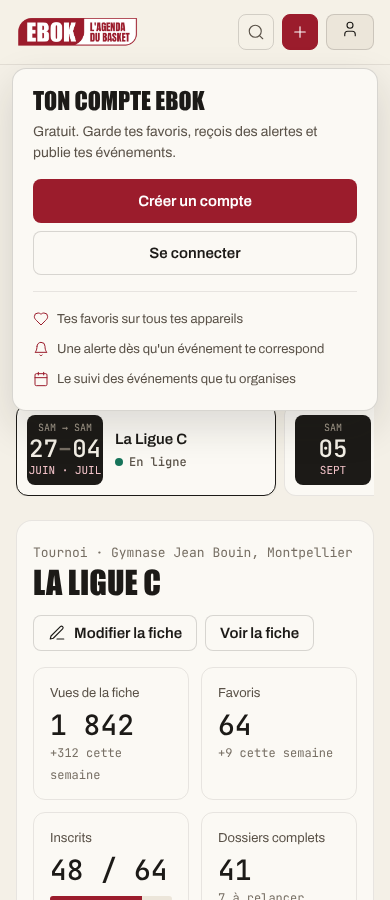
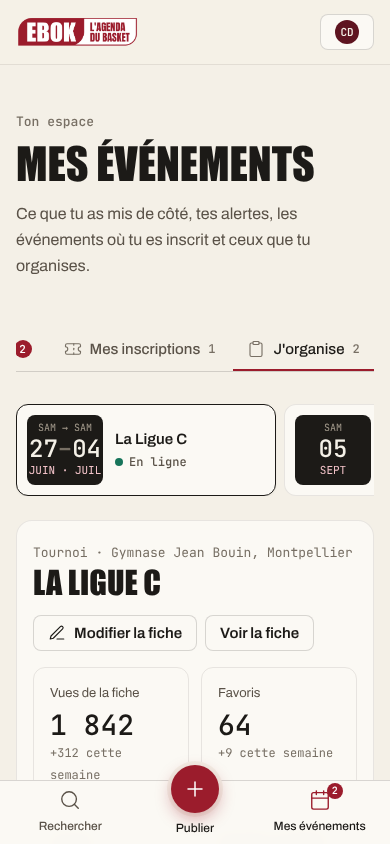
Maquette : Publier au centre du menu, barre du bas sur portable
Claude-Session: https://claude.ai/code/session_01XyUKpsj1AWNnaW1cNftfQd

diff --git a/maquettes/unslop/mes-evenements.html b/maquettes/unslop/mes-evenements.html
@@ -45,6 +45,28 @@ button,input{font:inherit;color:inherit}button{cursor:pointer}a{color:inherit;te
 .avatar{width:24px;height:24px;border-radius:50%;background:var(--bordeaux);color:#F4F0E7;display:grid;place-items:center;font:500 11px var(--mono)}
 .mobile-only{display:none}
 
+/* Publier au centre de la barre */
+.nav{align-items:center;gap:8px}
+.nav .nav-pub{height:40px;padding:0 18px;margin:0 8px;color:#fff;box-shadow:none}
+.nav .nav-pub:hover{background:var(--accent-2);color:#fff}
+.nav .nav-pub .ic{color:#fff}
+.nav a[aria-current] .badge{margin-left:2px}
+/* Barre du bas, portable */
+.tabbar{display:none}
+@media(max-width:980px){
+  .tabbar{display:grid;grid-template-columns:1fr 1fr 1fr;position:fixed;left:0;right:0;bottom:0;z-index:30;height:64px;
+    padding:0 8px env(safe-area-inset-bottom);background:rgba(251,249,244,.97);backdrop-filter:blur(8px);border-top:1px solid var(--line-2)}
+  .tabbar a{display:flex;flex-direction:column;align-items:center;justify-content:center;gap:4px;font-size:12px;font-weight:500;color:var(--ink-2)}
+  .tabbar a[aria-current]{color:var(--ink)}
+  .tabbar a[aria-current] .ic{color:var(--accent)}
+  .tabbar .ic{width:22px;height:22px}
+  .tb-ic{position:relative;display:flex}
+  .tb-ic .badge{position:absolute;top:-6px;right:-12px;min-width:16px;height:16px;line-height:16px;font-size:10px}
+  .tb-pub{color:var(--ink) !important}
+  .tb-plus{width:48px;height:48px;margin-top:-22px;border-radius:50%;background:var(--accent);color:#fff;display:grid;place-items:center;box-shadow:0 6px 16px rgba(155,28,44,.35),0 0 0 4px var(--bg)}
+  .tb-plus .ic{width:24px;height:24px;color:#fff !important}
+  body{padding-bottom:72px}
+}
 /* menu Mon compte */
 .acct{position:relative}
 .acct-btn[aria-expanded=true]{background:var(--raised)}
@@ -151,13 +173,11 @@ footer{margin-top:64px;border-top:1px solid var(--line);padding:24px 0;font:400 
     <a class="logo" href="#" aria-label="EBOK — accueil"><img src="assets/logo.png" alt="EBOK — L'agenda du basket" width="123" height="32"></a>
     <nav class="nav" aria-label="Principal">
       <a href="#"><svg class="ic" viewBox="0 0 24 24"><circle cx="11" cy="11" r="8"/><path d="m21 21-4.3-4.3"/></svg>Rechercher</a>
+      <a class="btn btn-red nav-pub" href="#"><svg class="ic" viewBox="0 0 24 24"><path d="M5 12h14"/><path d="M12 5v14"/></svg>Publier un événement</a>
       <a href="#" aria-current="page"><svg class="ic" viewBox="0 0 24 24"><rect x="3" y="4" width="18" height="18" rx="2"/><path d="M16 2v4"/><path d="M8 2v4"/><path d="M3 10h18"/></svg>Mes événements<span class="badge" aria-label="2 nouveautés dans tes alertes">2</span></a>
     </nav>
     <div class="right">
-      <button class="iconbtn mobile-only" aria-label="Rechercher"><svg class="ic" viewBox="0 0 24 24"><circle cx="11" cy="11" r="8"/><path d="m21 21-4.3-4.3"/></svg></button>
       <button class="iconbtn desk" aria-label="Thème sombre"><svg class="ic" viewBox="0 0 24 24"><path d="M12 3a6 6 0 0 0 9 9 9 9 0 1 1-9-9Z"/></svg></button>
-      <a class="btn btn-red desk" href="#"><svg class="ic" viewBox="0 0 24 24"><path d="M5 12h14"/><path d="M12 5v14"/></svg>Publier un événement</a>
-      <button class="iconbtn mobile-only" style="background:var(--accent);color:#fff;border-color:var(--accent)" aria-label="Publier un événement"><svg class="ic" viewBox="0 0 24 24"><path d="M5 12h14"/><path d="M12 5v14"/></svg></button>
       <div class="acct">
         <button class="btn btn-line acct-btn" id="acctBtn" aria-expanded="false" aria-controls="acctMenu">
           <span id="acctIcon"><svg class="ic" viewBox="0 0 24 24"><path d="M19 21v-2a4 4 0 0 0-4-4H9a4 4 0 0 0-4 4v2"/><circle cx="12" cy="7" r="4"/></svg></span>
@@ -290,6 +310,11 @@ footer{margin-top:64px;border-top:1px solid var(--line);padding:24px 0;font:400 
   </section>
 </main>
 
+<nav class="tabbar" aria-label="Navigation principale">
+  <a href="#"><svg class="ic" viewBox="0 0 24 24"><circle cx="11" cy="11" r="8"/><path d="m21 21-4.3-4.3"/></svg>Rechercher</a>
+  <a href="#" class="tb-pub"><span class="tb-plus"><svg class="ic" viewBox="0 0 24 24"><path d="M5 12h14"/><path d="M12 5v14"/></svg></span>Publier</a>
+  <a href="#" aria-current="page"><span class="tb-ic"><svg class="ic" viewBox="0 0 24 24"><rect x="3" y="4" width="18" height="18" rx="2"/><path d="M16 2v4"/><path d="M8 2v4"/><path d="M3 10h18"/></svg><span class="badge">2</span></span>Mes événements</a>
+</nav>
 <footer><div class="wrap">Maquette EBOK — menu simplifié et Mes événements · unslop by @heydamir</div></footer>
 
 <script>
@@ -297,6 +322,8 @@ const q = new URLSearchParams(location.search);
 const ouvrir = onglet => {
   document.querySelectorAll('.tabs .tab').forEach(t => t.setAttribute('aria-selected', t.dataset.tab === onglet));
   document.querySelectorAll('.panel').forEach(p => p.classList.toggle('on', p.dataset.panel === onglet));
+  const actif = document.querySelector('.tabs .tab[aria-selected=true]');
+  if (actif) actif.parentElement.scrollLeft = actif.offsetLeft - 16;
 };
 document.querySelectorAll('.tabs .tab').forEach(t => t.addEventListener('click', () => ouvrir(t.dataset.tab)));
 ouvrir(q.get('onglet') || 'organise');

diff --git a/DEVELOPMENT_PLAN.md b/DEVELOPMENT_PLAN.md
@@ -153,8 +153,10 @@ Idée du propriétaire (24/11/2026) : proposer aux organisateurs de **gérer leu
       côté serveur, invitation révocable, trace de qui a fait quoi.
 - [ ] **Menu simplifié + page « Mes événements »** (maquette :
       `maquettes/unslop/mes-evenements.html`) — barre du haut : Rechercher,
-      Mes événements (pastille des alertes), bouton « Publier un événement »,
-      bouton « Mon compte » (déconnecté : Créer un compte / Se connecter ;
+      bouton « Publier un événement » **au centre**, Mes événements (pastille
+      des alertes), puis bouton « Mon compte » à droite ; sur portable, barre
+      en bas de l'écran Rechercher / + Publier / Mes événements, et « Mon
+      compte » en haut à droite (déconnecté : Créer un compte / Se connecter ;
       connecté : profil, administration, thème, déconnexion). Page en quatre
       onglets : Favoris, Alertes, Mes inscriptions, J'organise (tableau de bord
       par événement : vues, favoris, inscrits, documents, co-organisateurs).
